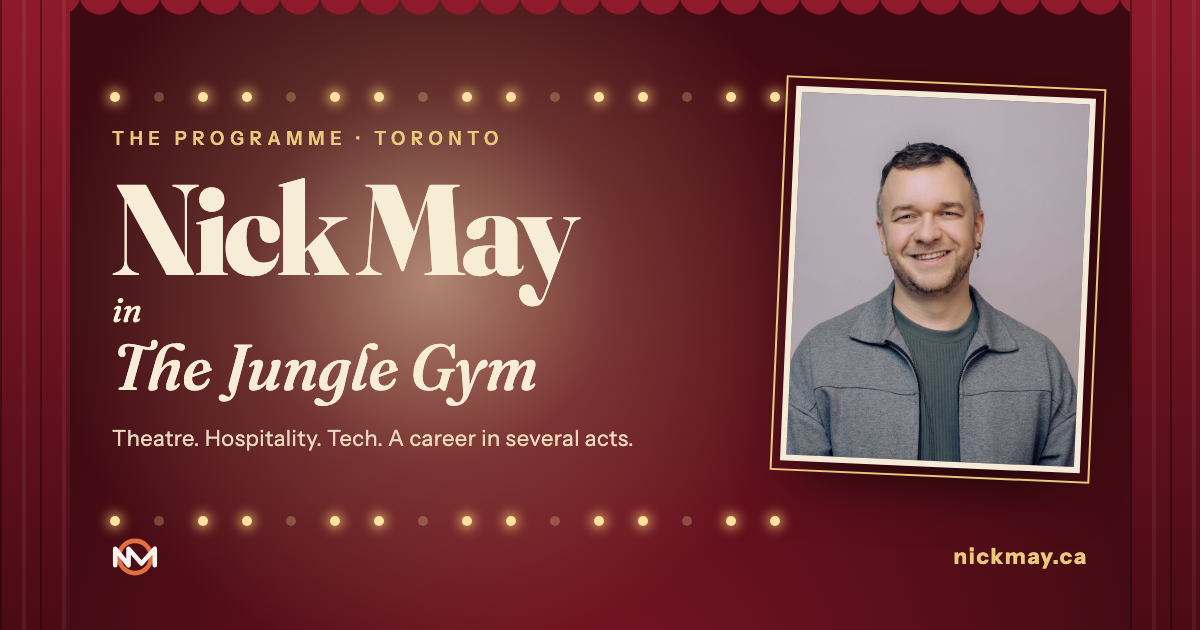
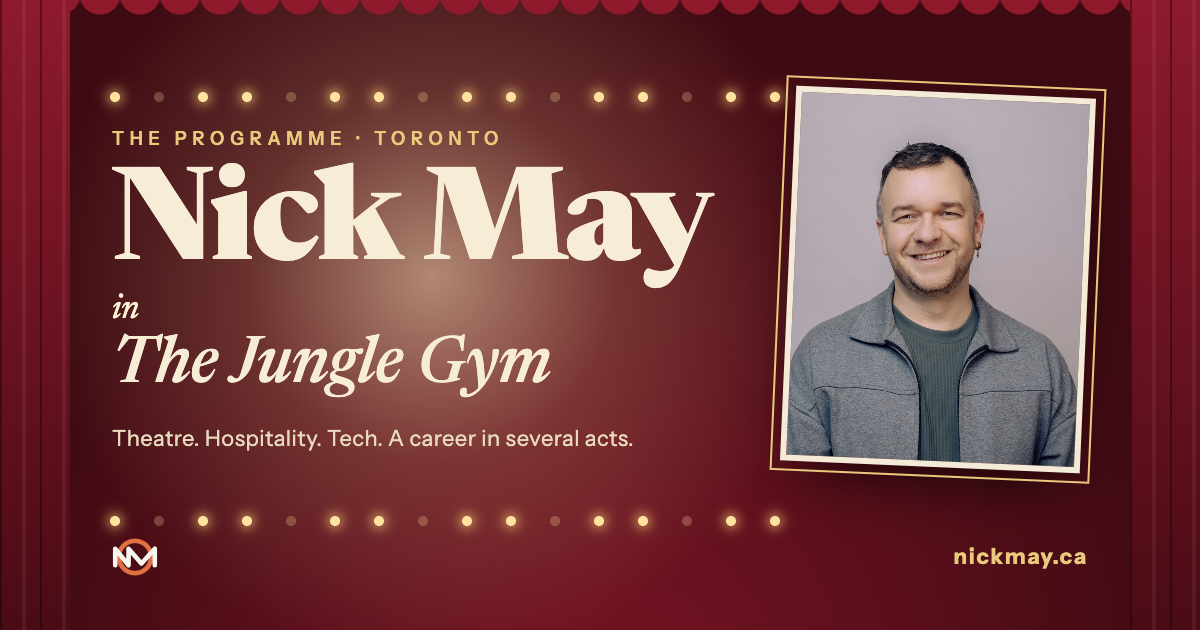
Swap Fraunces for Newsreader across the site and share image

Changed region(s): [[0.0925, 0.2413, 0.6167, 0.6635]]

diff --git a/src/styles/global.css b/src/styles/global.css
@@ -12,7 +12,7 @@
   --rule: #cdbd9c;
   --accent: var(--velvet);
 
-  --display: 'Fraunces', Georgia, serif;
+  --display: 'Newsreader', Georgia, serif;
   --body: 'Instrument Sans', system-ui, sans-serif;
   --mono: 'JetBrains Mono', ui-monospace, monospace;
 
@@ -188,8 +188,8 @@ html[data-mode='backstage'] .mode-bs { background: var(--ink); color: var(--pape
 .cover-name {
   display: block;
   font: 800 clamp(64px, 14vw, 180px)/0.88 var(--display);
-  letter-spacing: -.035em;
-  font-variation-settings: 'opsz' 144;
+  letter-spacing: -.02em;
+  font-variation-settings: 'opsz' 72;
 }
 .cover-in {
   display: block;
@@ -253,7 +253,7 @@ html[data-mode='backstage'] .cover-kicker { color: var(--brass); letter-spacing:
 .section-title {
   margin: 0 0 12px;
   font: 700 clamp(40px, 7vw, 84px)/0.95 var(--display);
-  letter-spacing: -.025em;
+  letter-spacing: -.015em;
 }
 .eyebrow {
   display: block;
@@ -412,7 +412,7 @@ html[data-mode='backstage'] .scene-note::before { content: '// '; color: var(--b
   border-right: 2px dashed rgba(62, 10, 18, .35);
 }
 .ticket-no { font: 700 10px/1 var(--mono); letter-spacing: .16em; padding-right: 48px; }
-.ticket-text { font: italic 600 21px/1.2 'Fraunces', Georgia, serif; padding-right: 48px; }
+.ticket-text { font: italic 600 21px/1.2 'Newsreader', Georgia, serif; padding-right: 48px; }
 
 html[data-mode='backstage'] .intermission { background: #070807; }
 html[data-mode='backstage'] .ticket { background: #1d1f1d; color: var(--ink); border-left: 4px solid var(--brass); }
@@ -893,7 +893,7 @@ html[data-mode='backstage'] .chair-text { fill: var(--accent); }
   transform: rotateY(180deg);
   padding: 14px; text-align: center;
   background: var(--ink); color: var(--paper);
-  font: italic 600 16px/1.25 'Fraunces', Georgia, serif;
+  font: italic 600 16px/1.25 'Newsreader', Georgia, serif;
 }
 .badge.flipped .badge-front { transform: rotateY(-180deg); }
 .badge.flipped .badge-back { transform: rotateY(0); }
@@ -903,11 +903,11 @@ html[data-mode='backstage'] .chair-text { fill: var(--accent); }
 .badge-oddjobs .badge-front { background: #fff; border: 2px solid #d62f2f; justify-content: flex-start; gap: 0; }
 .hello { width: 100%; padding: 8px 0 6px; background: #d62f2f; color: #fff; font: 900 18px/1 'Instrument Sans', sans-serif; letter-spacing: .06em; text-align: center; }
 .hello small { display: block; font-size: 10px; font-weight: 600; letter-spacing: .08em; margin-top: 2px; }
-.hello-name { flex: 1; display: grid; place-items: center; font: italic 700 24px/1 'Fraunces', serif; color: #1d1714; transform: rotate(-4deg); }
+.hello-name { flex: 1; display: grid; place-items: center; font: italic 700 24px/1 'Newsreader', serif; color: #1d1714; transform: rotate(-4deg); }
 
 /* Paper route: newsprint */
 .badge-paper .badge-front { background: #f4efe3; color: #1d1714; border: 1px solid #c9bfa8; }
-.masthead { font: 900 italic 17px/1 'Fraunces', serif; border-bottom: 2px solid #1d1714; padding-bottom: 3px; }
+.masthead { font: 800 italic 17px/1 'Newsreader', serif; border-bottom: 2px solid #1d1714; padding-bottom: 3px; }
 .paper-cols { width: 70%; height: 22px; background: repeating-linear-gradient(90deg, #b9ae97 0 28%, transparent 28% 36%); opacity: .6;
   -webkit-mask: repeating-linear-gradient(0deg, #000 0 2px, transparent 2px 5px); mask: repeating-linear-gradient(0deg, #000 0 2px, transparent 2px 5px); }
 
@@ -920,12 +920,12 @@ html[data-mode='backstage'] .chair-text { fill: var(--accent); }
 .badge-serving .badge-front { background: #fffef7; color: #1d1714; border-top: 10px solid #3a7d44; justify-content: flex-start; padding-top: 10px; }
 .pad-head { font: 700 11px/1 'JetBrains Mono', monospace; color: #3a7d44; }
 .pad-lines { width: 78%; height: 30px; background: repeating-linear-gradient(0deg, transparent 0 9px, #d7d0bd 9px 10px); }
-.pad-lines + .badge-label { font: italic 600 15px/1 'Fraunces', serif; }
+.pad-lines + .badge-label { font: italic 600 15px/1 'Newsreader', serif; }
 
 /* Restaurants: chalkboard */
 .badge-restaurants .badge-front { background: #2b3a33; color: #f1efe6; border: 5px solid #8a5a30; }
-.chalk-head { font: italic 700 14px/1 'Fraunces', serif; opacity: .75; text-decoration: underline wavy rgba(241,239,230,.5); text-underline-offset: 4px; }
-.badge-restaurants .badge-label { font: 600 16px/1.15 'Fraunces', serif; text-align: center; padding: 0 10px; }
+.chalk-head { font: italic 700 14px/1 'Newsreader', serif; opacity: .75; text-decoration: underline wavy rgba(241,239,230,.5); text-underline-offset: 4px; }
+.badge-restaurants .badge-label { font: 600 16px/1.15 'Newsreader', serif; text-align: center; padding: 0 10px; }
 
 /* Hotels: room key card */
 .badge-hotels .badge-front { background: linear-gradient(135deg, #e9e6df, #b9b3a6); color: #1d1714; align-items: flex-start; padding: 12px 14px; justify-content: flex-start; }
@@ -983,7 +983,7 @@ html[data-mode='backstage'] .badge-back { filter: none; background: #1d1f1d; col
 
 .badge-writer .badge-front { background: #fbfaf5; color: #1d1714; border-left: 4px solid #c94a4a; align-items: flex-start; padding: 12px 14px; justify-content: space-between; }
 .typed { font: 400 11px/1.4 'JetBrains Mono', monospace; text-align: left; }
-.badge-writer .badge-label { font: italic 700 15px/1 'Fraunces', serif; }
+.badge-writer .badge-label { font: italic 700 15px/1 'Newsreader', serif; }
 
 .badge-pm .badge-front { background: #e9e1cf; color: #1d1714; border-top: 12px solid #8a5a30; padding: 8px 14px; align-items: flex-start; justify-content: flex-start; gap: 4px; }
 .checklist { display: flex; flex-direction: column; gap: 2px; font: 600 11px/1.3 'JetBrains Mono', monospace; text-align: left; }
@@ -1053,7 +1053,7 @@ html[data-mode='backstage'] .board-logo { box-shadow: none; border: 1px dashed v
 .suitcase text { font: 700 12px 'JetBrains Mono', monospace; fill: #f3ead7; }
 .marquee-box { fill: #7a1424; stroke: #e9c97b; stroke-width: 3; }
 .marquee-kicker { font: 600 11px 'Instrument Sans', sans-serif; letter-spacing: 3px; fill: #e9c97b; }
-.marquee-name { font: italic 800 26px 'Fraunces', serif; fill: #f7ecd6; }
+.marquee-name { font: italic 800 26px 'Newsreader', serif; fill: #f7ecd6; }
 .mbulb { fill: #ffe2a0; animation: chase 1.2s steps(1) infinite; animation-delay: calc(var(--i) * .4s); }
 .mini-spot { position: absolute; inset: 0; pointer-events: none; background: radial-gradient(ellipse 40% 60% at 50% 70%, rgba(255,240,200,.18), transparent 70%); mix-blend-mode: screen; }
 .mini-curtain {
@@ -1366,7 +1366,7 @@ html[data-mode='backstage'] .s2t-cta { background: var(--accent); color: #000; }
 .s2-back { display: inline-block; margin-bottom: 28px; font-size: 14px; letter-spacing: .04em; color: var(--ink-soft); text-decoration: none; }
 .s2-back:hover { color: var(--accent); }
 .s2-masthead { display: grid; grid-template-columns: auto 1fr; align-items: end; gap: 12px 40px; padding-bottom: 22px; border-bottom: 3px double var(--ink); }
-.s2-h1 { margin: 0; font: 700 clamp(44px, 6vw, 72px)/.95 var(--display); letter-spacing: -.025em; }
+.s2-h1 { margin: 0; font: 700 clamp(44px, 6vw, 72px)/.95 var(--display); letter-spacing: -.015em; }
 .s2-intro { margin: 0 0 6px; max-width: 34ch; justify-self: end; text-align: right; font: italic 400 19px/1.45 var(--display); color: var(--ink-soft); }
 .s2-programme { display: grid; grid-template-columns: 1fr 1fr; border-bottom: 1px solid var(--rule); }
 .s2-programme a { display: flex; align-items: baseline; gap: 12px; padding: 16px 0; font: 600 14px/1.2 var(--body); letter-spacing: .14em; text-transform: uppercase; color: var(--ink); text-decoration: none; transition: color .2s; }

diff --git a/scripts/og-card.html b/scripts/og-card.html
@@ -4,7 +4,7 @@
 <html>
 <head>
 <meta charset="utf-8" />
-<link rel="stylesheet" href="https://fonts.googleapis.com/css2?family=Fraunces:ital,opsz,wght@0,9..144,300..900;1,9..144,300..900&family=Instrument+Sans:wght@400..700&display=swap" />
+<link rel="stylesheet" href="https://fonts.googleapis.com/css2?family=Newsreader:ital,opsz,wght@0,6..72,300..800;1,6..72,300..800&family=Instrument+Sans:wght@400..700&display=swap" />
 <style>
   * { box-sizing: border-box; margin: 0; }
   html, body { width: 1200px; height: 630px; overflow: hidden; }
@@ -25,9 +25,9 @@
   .top { top: 92px; } .bottom { bottom: 104px; }
   .copy { position: absolute; left: 112px; top: 128px; width: 640px; }
   .kicker { font-weight: 600; font-size: 18px; letter-spacing: .32em; text-transform: uppercase; color: #e9c97b; }
-  .name { font: 800 128px/0.9 'Fraunces', serif; letter-spacing: -.035em; margin-top: 22px; font-variation-settings: 'opsz' 144; }
-  .in { font: italic 400 34px/1.4 'Fraunces', serif; color: #fff3d6; }
-  .show { font: italic 500 64px/1 'Fraunces', serif; }
+  .name { font: 800 128px/0.9 'Newsreader', serif; letter-spacing: -.02em; margin-top: 22px; font-variation-settings: 'opsz' 72; }
+  .in { font: italic 400 34px/1.4 'Newsreader', serif; color: #fff3d6; }
+  .show { font: italic 500 64px/1 'Newsreader', serif; }
   .sub { margin-top: 26px; font-size: 22px; color: #e8d9bd; letter-spacing: .02em; }
   .photo { position: absolute; right: 112px; top: 92px; width: 300px; height: 375px; border: 6px solid #f3ead7; outline: 2px solid #e9c97b; outline-offset: 8px; transform: rotate(2.5deg); background: url('../public/images/headshot-smile.jpg') center / cover; box-shadow: 0 30px 60px -20px rgba(0,0,0,.7); }
   .url { position: absolute; right: 112px; bottom: 60px; font: 700 22px 'Instrument Sans', sans-serif; letter-spacing: .08em; color: #e9c97b; }
